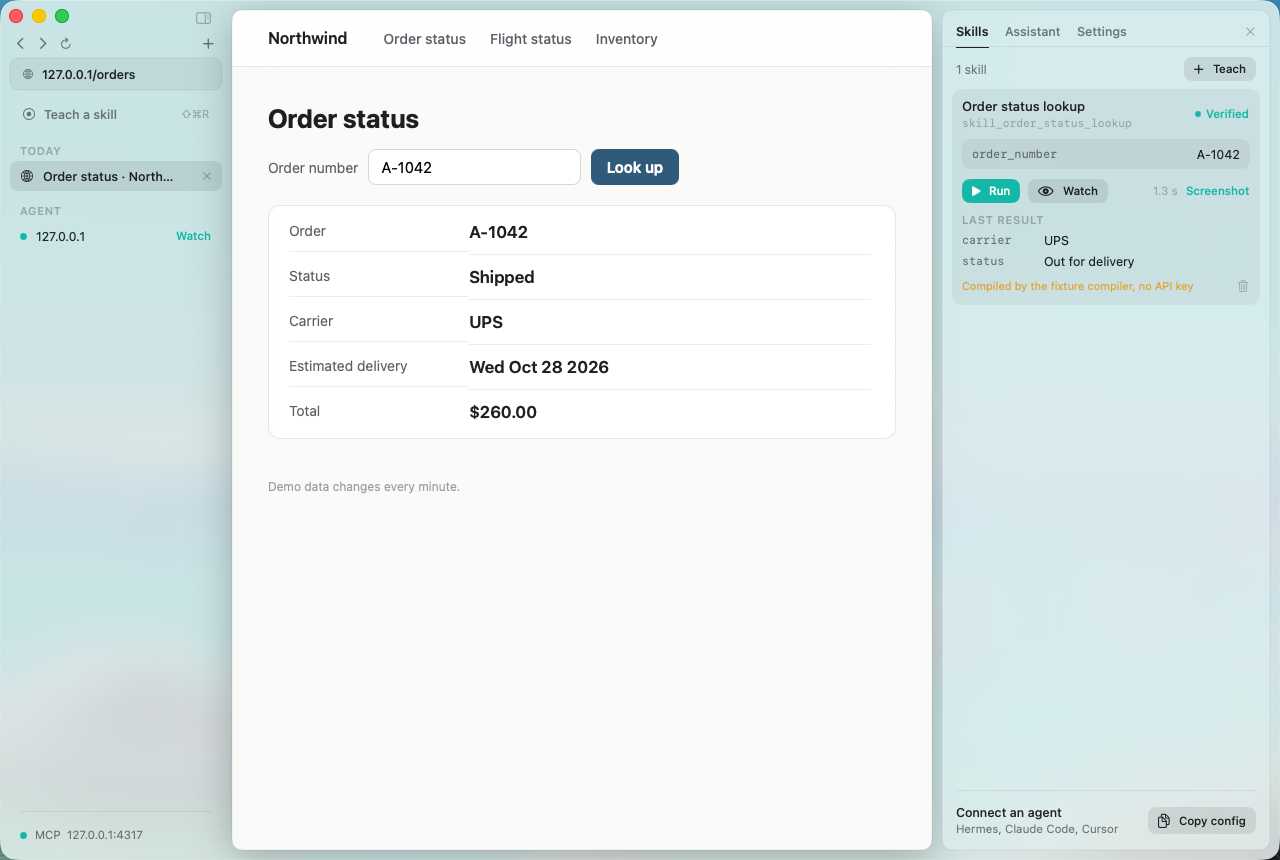
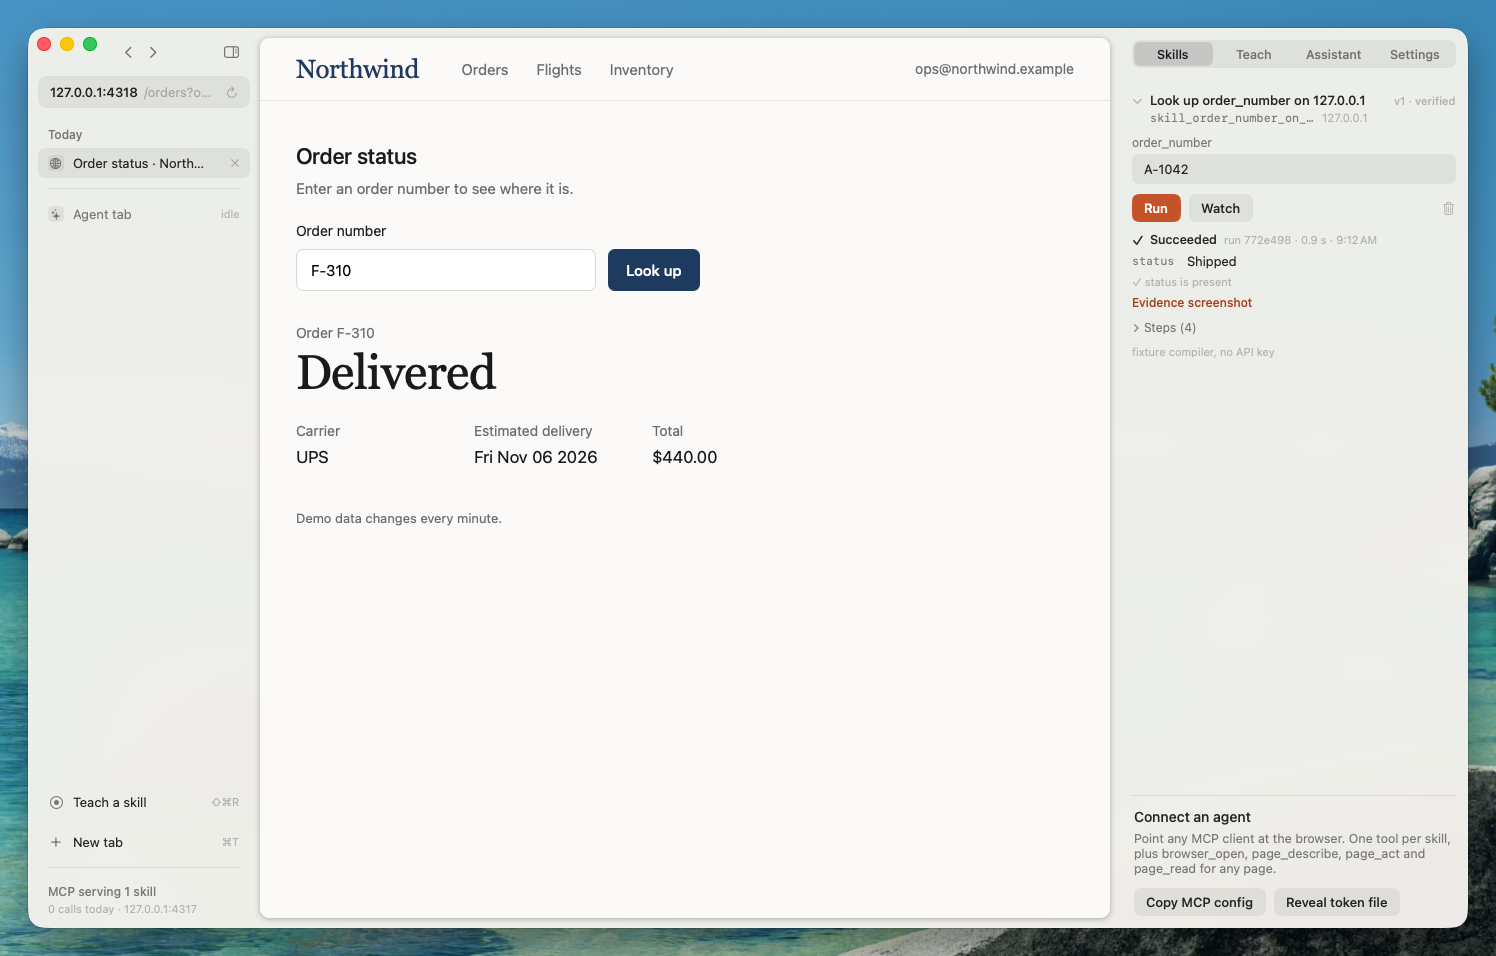
Clear desk UI: window tint over the material, address pill keeps the host, settings values wrap; window snapshot via ScreenCaptureKit; final screenshots

diff --git a/app/Sources/BrowserSkills/App/BrowserSkillsApp.swift b/app/Sources/BrowserSkills/App/BrowserSkillsApp.swift
@@ -1,6 +1,7 @@
 // Licensed under GPL-3.0. See LICENSE.
 
 import AppKit
+import ScreenCaptureKit
 import SwiftUI
 
 @main
@@ -41,23 +42,34 @@ final class AppDelegate: NSObject, NSApplicationDelegate {
     func applicationShouldTerminateAfterLastWindowClosed(_ sender: NSApplication) -> Bool { true }
 }
 
-/// Writes a PNG of the main window to BROWSERSKILLS_SNAPSHOT_DIR (or ~/Pictures/BrowserSkills).
-/// An app may capture its own windows without the screen recording permission.
+/// Writes a PNG of the main window to BROWSERSKILLS_SNAPSHOT_DIR (or ~/Pictures/BrowserSkills) through
+/// ScreenCaptureKit, filtered to this window only. Errors go to stderr; nothing else is shown.
 enum WindowSnapshot {
-    @discardableResult
-    static func save() -> URL? {
-        guard let window = NSApp.windows.first(where: { $0.isVisible && $0.frame.minX > -10000 && !($0 is NSPanel) }) else { return nil }
+    static func save() {
+        guard let window = NSApp.windows.first(where: { $0.isVisible && $0.frame.minX > -10000 && !($0 is NSPanel) }) else { return }
         let id = CGWindowID(window.windowNumber)
-        guard let image = CGWindowListCreateImage(.null, .optionIncludingWindow, id, [.boundsIgnoreFraming, .bestResolution]) else { return nil }
-        let rep = NSBitmapImageRep(cgImage: image)
-        guard let png = rep.representation(using: .png, properties: [:]) else { return nil }
-        let env = ProcessInfo.processInfo.environment["BROWSERSKILLS_SNAPSHOT_DIR"]
-        let dir = env.map { URL(fileURLWithPath: $0, isDirectory: true) }
-            ?? FileManager.default.urls(for: .picturesDirectory, in: .userDomainMask)[0].appendingPathComponent("BrowserSkills", isDirectory: true)
-        try? FileManager.default.createDirectory(at: dir, withIntermediateDirectories: true)
-        let stamp = ISO8601DateFormatter().string(from: Date()).replacingOccurrences(of: ":", with: "-")
-        let url = dir.appendingPathComponent("snapshot-\(stamp).png")
-        do { try png.write(to: url) } catch { return nil }
-        return url
+        let scale = window.backingScaleFactor
+        Task { @MainActor in
+            do {
+                let content = try await SCShareableContent.excludingDesktopWindows(false, onScreenWindowsOnly: true)
+                guard let target = content.windows.first(where: { $0.windowID == id }) else { return }
+                let config = SCStreamConfiguration()
+                config.width = Int(target.frame.width * scale)
+                config.height = Int(target.frame.height * scale)
+                config.showsCursor = false
+                config.captureResolution = .best
+                let image = try await SCScreenshotManager.captureImage(contentFilter: SCContentFilter(desktopIndependentWindow: target), configuration: config)
+                let rep = NSBitmapImageRep(cgImage: image)
+                guard let png = rep.representation(using: .png, properties: [:]) else { return }
+                let env = ProcessInfo.processInfo.environment["BROWSERSKILLS_SNAPSHOT_DIR"]
+                let dir = env.map { URL(fileURLWithPath: $0, isDirectory: true) }
+                    ?? FileManager.default.urls(for: .picturesDirectory, in: .userDomainMask)[0].appendingPathComponent("BrowserSkills", isDirectory: true)
+                try FileManager.default.createDirectory(at: dir, withIntermediateDirectories: true)
+                let stamp = ISO8601DateFormatter().string(from: Date()).replacingOccurrences(of: ":", with: "-")
+                try png.write(to: dir.appendingPathComponent("snapshot-\(stamp).png"))
+            } catch {
+                FileHandle.standardError.write(Data("snapshot failed: \(error)\n".utf8))
+            }
+        }
     }
 }

diff --git a/app/Sources/BrowserSkills/UI/SidePanel.swift b/app/Sources/BrowserSkills/UI/SidePanel.swift
@@ -448,10 +448,10 @@ struct SettingsPanel: View {
             VStack(alignment: .leading, spacing: 10) {
                 Caption("Nemotron on Nebius Token Factory")
                 SettingsGroup {
-                    SettingRow("API key") { SecureField("Not set, fixture compiler in use", text: $initial.apiKey) }
-                    SettingRow("Base URL") { TextField("", text: $initial.baseURL).mono(12) }
-                    SettingRow("Compiler model") { TextField("", text: $initial.compilerModel).mono(12) }
-                    SettingRow("Assistant model") { TextField("", text: $initial.assistantModel).mono(12) }
+                    SettingRow("API key") { SecureField("Not set, fixture mode", text: $initial.apiKey) }
+                    SettingRow("Base URL") { TextField("", text: $initial.baseURL, axis: .vertical).mono(12) }
+                    SettingRow("Compiler model") { TextField("", text: $initial.compilerModel, axis: .vertical).mono(12) }
+                    SettingRow("Assistant model") { TextField("", text: $initial.assistantModel, axis: .vertical).mono(12) }
                 }
                 Caption("Optional").padding(.top, 8)
                 SettingsGroup {
@@ -494,10 +494,10 @@ struct SettingRow<Content: View>: View {
     var body: some View {
         HStack(alignment: .firstTextBaseline, spacing: 12) {
             Text(label).font(.system(size: 13)).frame(width: 110, alignment: .leading)
-            content.textFieldStyle(.plain).font(.system(size: 13)).lineLimit(1).truncationMode(.middle)
+            content.textFieldStyle(.plain).font(.system(size: 13)).lineLimit(1...3)
                 .frame(maxWidth: .infinity, alignment: .leading)
         }
-        .padding(.horizontal, 12).frame(minHeight: 36)
+        .padding(.horizontal, 12).padding(.vertical, 9).frame(minHeight: 36)
         .overlay(alignment: .bottom) { Hairline().padding(.leading, 12) }
     }
 }

diff --git a/app/Sources/BrowserSkills/UI/ContentView.swift b/app/Sources/BrowserSkills/UI/ContentView.swift
@@ -30,7 +30,10 @@ struct ContentView: View {
             }
         }
         .ignoresSafeArea()
-        .background(Material(material: .sidebar, blending: .behindWindow).ignoresSafeArea())
+        .background {
+            Material(material: .sidebar, blending: .behindWindow).ignoresSafeArea()
+            Theme.window.ignoresSafeArea()
+        }
         .animation(Theme.panelMotion, value: model.panelVisible)
     }
 }
@@ -112,8 +115,8 @@ struct AddressPill: View {
                     .onSubmit { model.go(text); stop() }
                     .onExitCommand { stop() }
             } else {
-                Text(host).font(.system(size: 13, weight: .medium)).lineLimit(1)
-                Text(path).font(.system(size: 13)).foregroundStyle(.tertiary).lineLimit(1).truncationMode(.middle)
+                Text(host).font(.system(size: 13, weight: .medium)).lineLimit(1).layoutPriority(1)
+                Text(path).font(.system(size: 13)).foregroundStyle(.tertiary).lineLimit(1).truncationMode(.tail)
                 Spacer(minLength: 0)
                 if tab.isLoading {
                     ProgressView().controlSize(.mini)

diff --git a/app/Sources/BrowserSkills/UI/Theme.swift b/app/Sources/BrowserSkills/UI/Theme.swift
@@ -12,6 +12,8 @@ enum Theme {
     static let control2 = adaptive(dark: "#ffffff", light: "#000000", darkAlpha: 0.13, lightAlpha: 0.11)
     static let hairline = adaptive(dark: "#ffffff", light: "#000000", darkAlpha: 0.10, lightAlpha: 0.09)
     static let page = Color(hex: "#fbfaf8")
+    /// Window fill laid over the blurred material so the desk reads as one dark (or warm light) surface.
+    static let window = adaptive(dark: "#1c1b1f", light: "#f3f0eb", darkAlpha: 0.78, lightAlpha: 0.84)
     static let sidebarWidth: CGFloat = 232
     static let panelWidth: CGFloat = 348
     static let inset: CGFloat = 10
